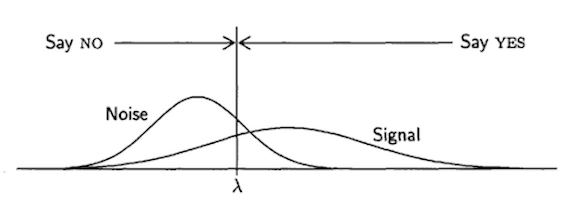
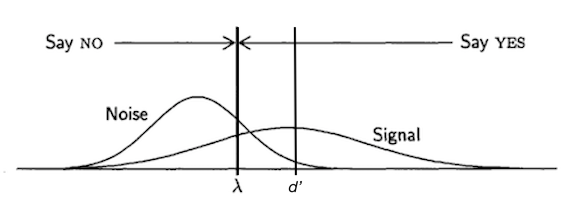
Data Visual

diff --git a/SDT/SDT.html b/SDT/SDT.html
@@ -153,7 +153,9 @@
 
   <div class = "content_statement">
     <p>Now, when we overlay the signal distribution curve and the noise distribution curve, we see some overlap in the middle. This is where a participant is more likely to rely on guessing. <br><br>
-    The funny little character on the x axis &#955; ,or lambda, is what we call our decision criteria. The decision criteria is established through data collection of a participant's hits, misses, correct rejections, and false alarms. It's placement on a graph like the one below tells researchers what a participant's typical response behavior is statistically.</p>
+    The first little character on the x axis &#955; ,or lambda, is what we call our decision criteria. The decision criteria is established through data collection of a participant's hits, misses, correct rejections, and false alarms. It's placement on a graph like the one below tells researchers what a participant's typical response behavior is statistically. <br><br>
+    The other character on the x axis <span style="font-style: italic;">d'</span> is known as sensitivity. <span style="font-style: italic;">d'</span> measures how close the noise and signal distribution are to each other. The closer they are to each other, the harder it is to discriminate between noise and signal.
+  </p>
   </div>
 
   <div id="content_pic">
@@ -331,8 +333,8 @@
 <div class="content">
   <h2>Data Analysis</h2>
   <div id="content_pic">
-    <a href="bluenote_smaller.png" target="_blank">
-      <img src="bluenote_smaller.png">
+    <a href="stats.png" target="_blank">
+      <img src="stats.png">
     </a>
   </div>
   <div class = "content_statement">
